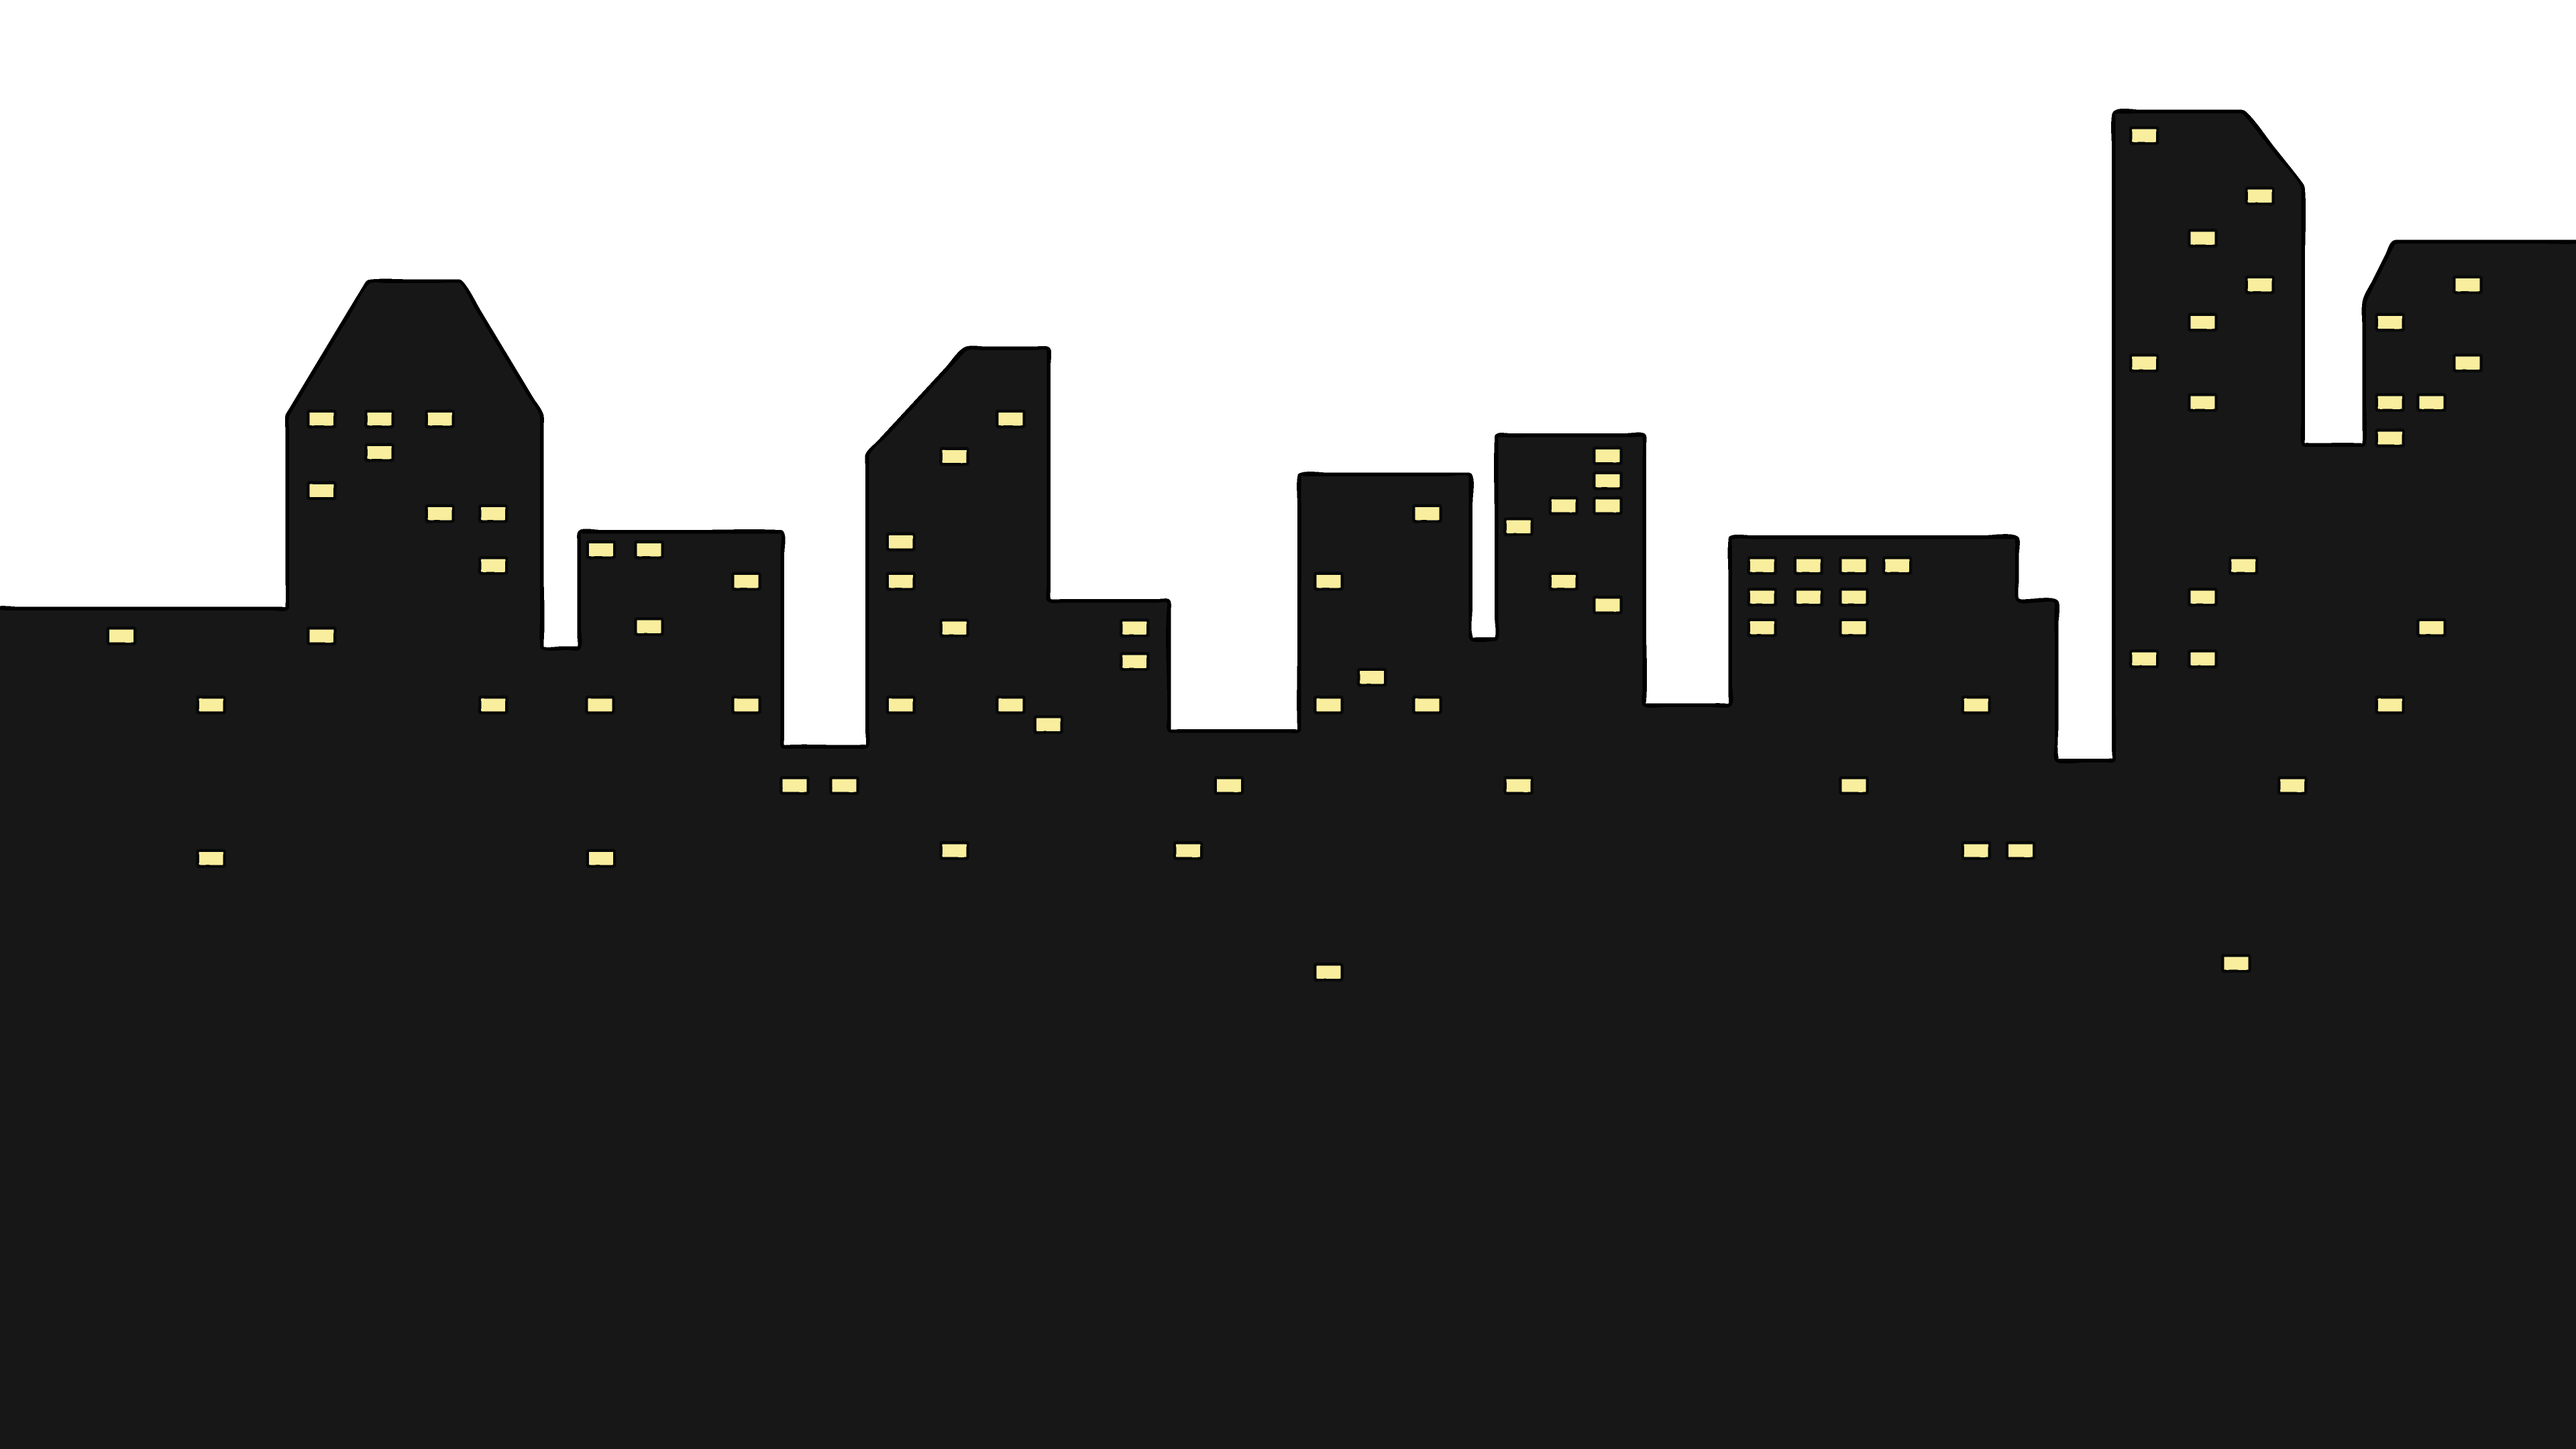
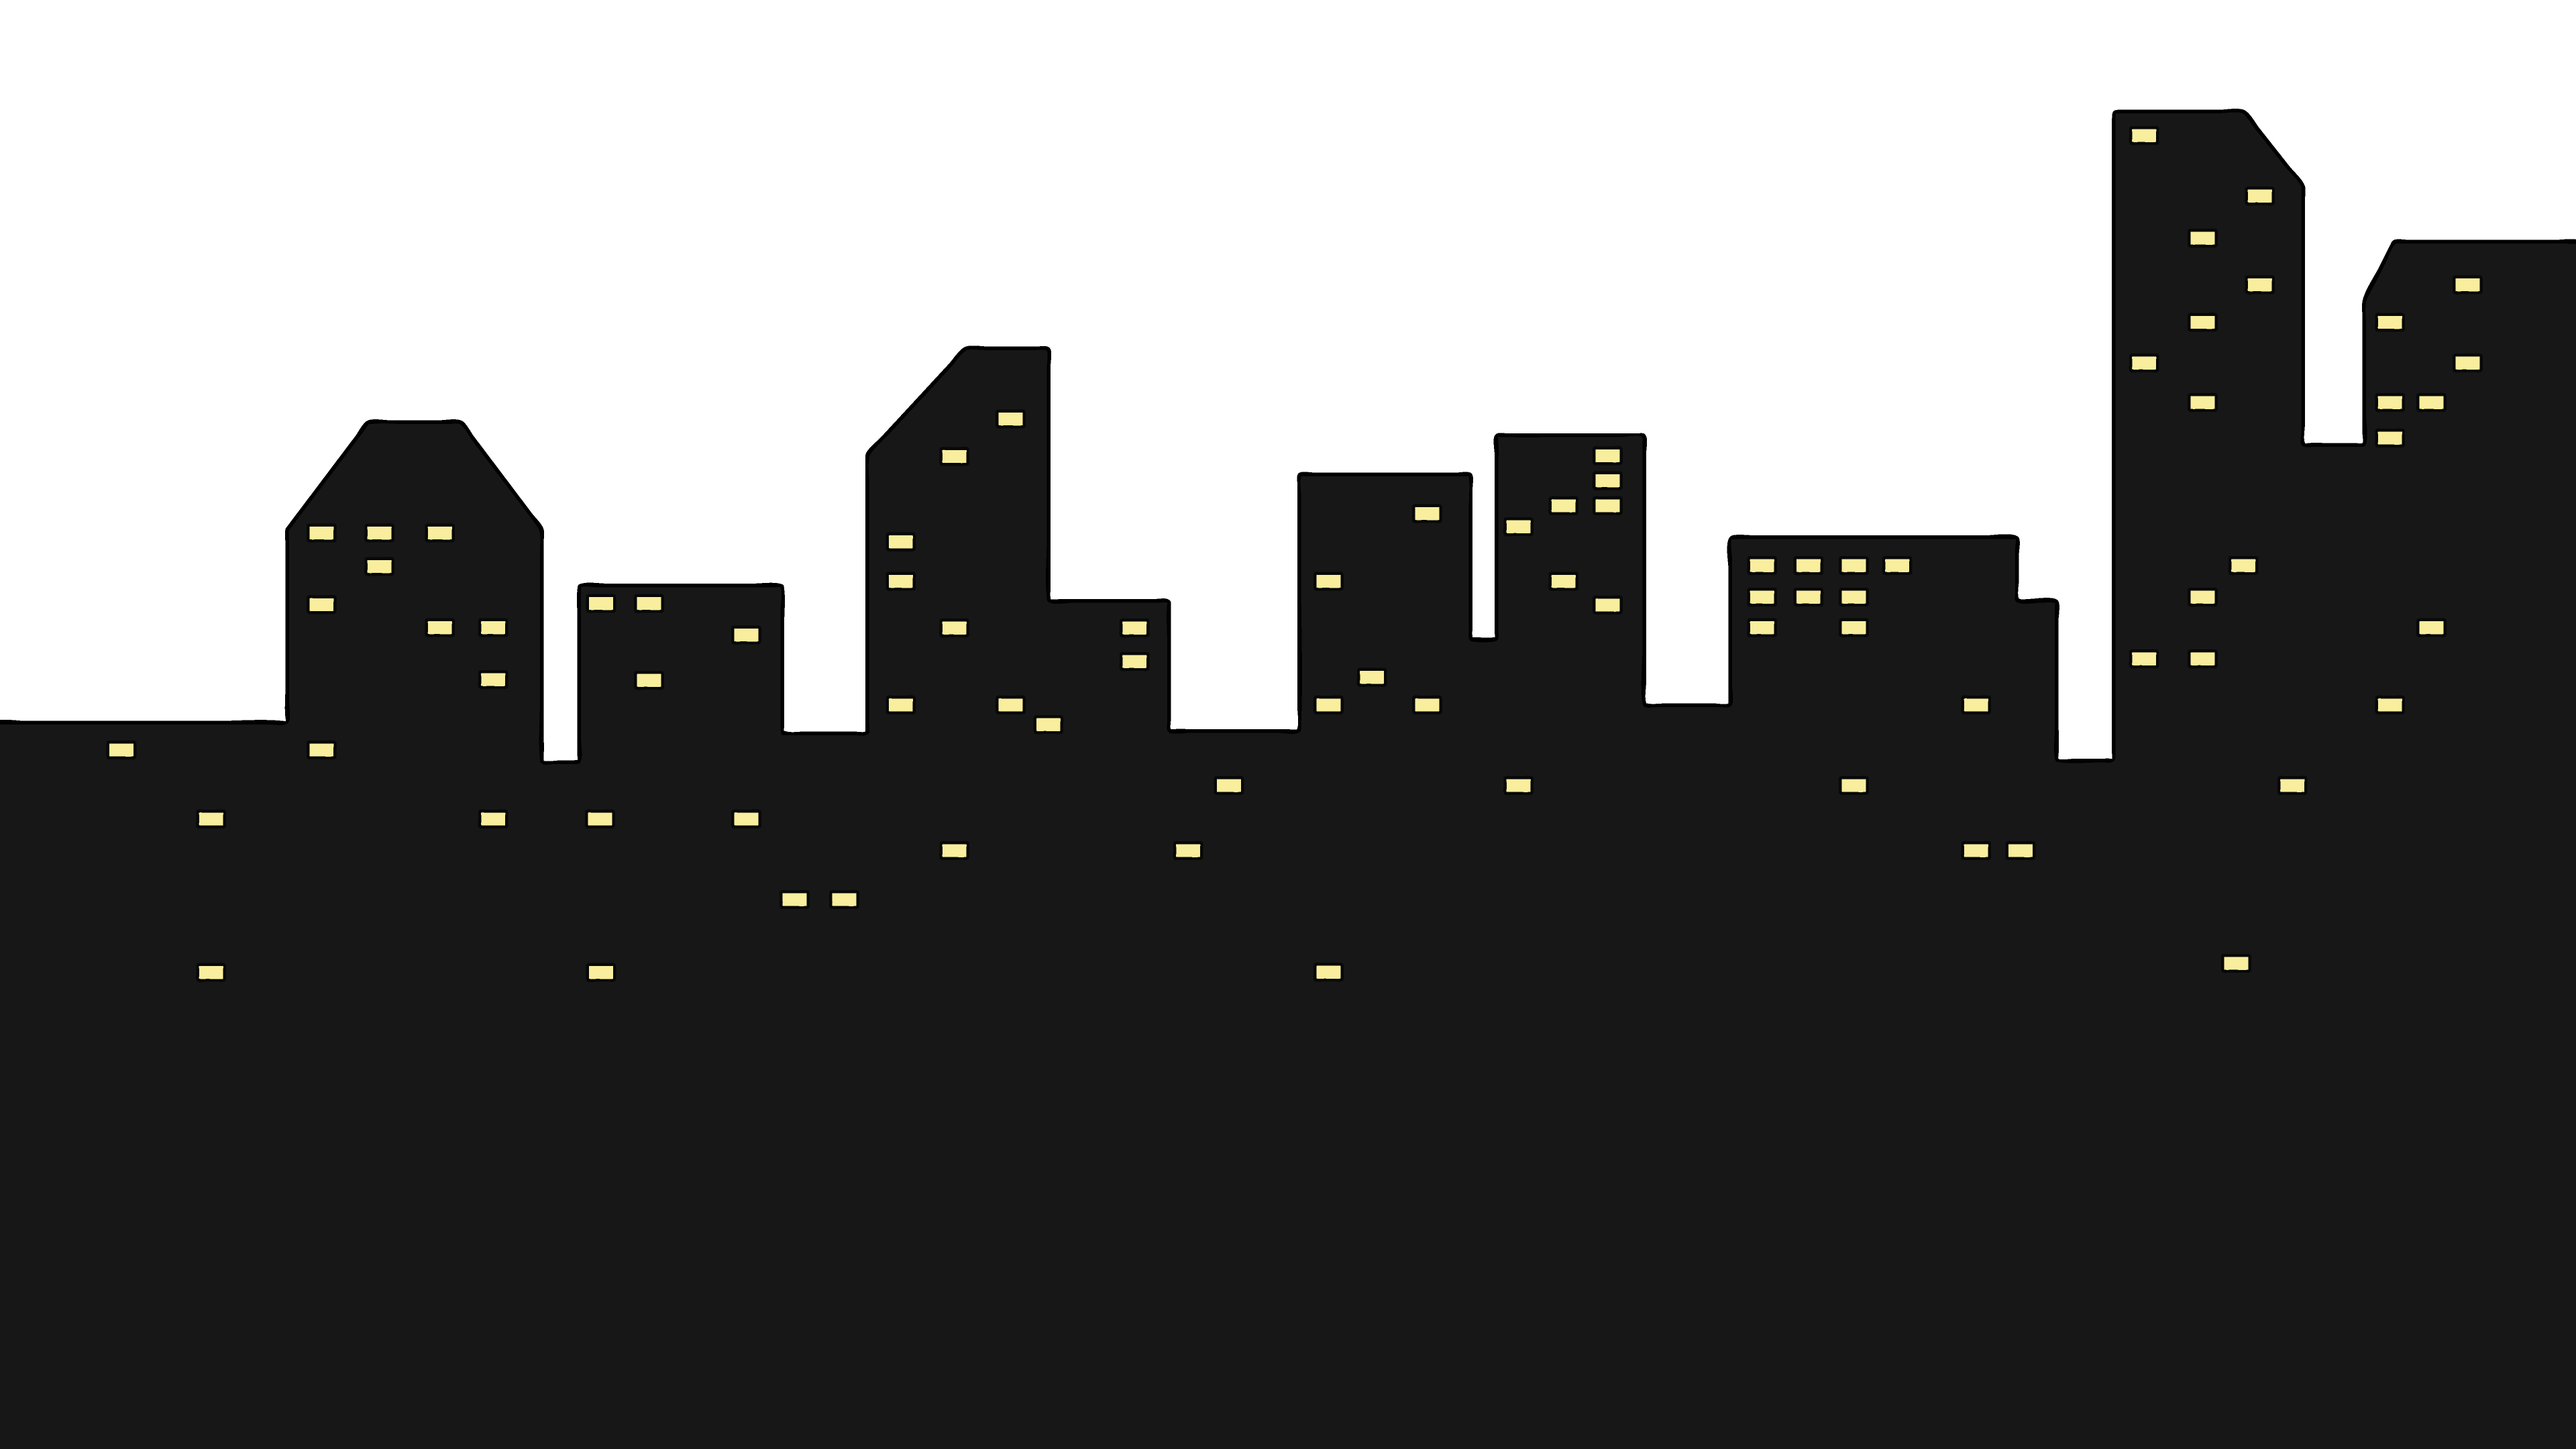
char select and home screen

diff --git a/public/assets/js/script.js b/public/assets/js/script.js
@@ -63,9 +63,9 @@ selectHero.on("click", function (event) {
     var defBoost = heroWep1.itmDefense + heroWep2.itmDefense;
     var intBoost = heroWep1.itmIntellect + heroWep2.itmIntellect;
 
-    for(vari=0; i<heroArr.length; i++){
-       var item1= $("testbutton").html(heroArr[i]);
-    }
+    // for(vari=0; i<heroArr.length; i++){
+    //    var item1= $("testbutton").html(heroArr[i]);
+    // }
 
     charArr.splice(0,1,Hero);
     Hero.attack += attackBoost;
@@ -114,6 +114,51 @@ selectMothman.on("click", function (event) {
     event.preventDefault();
 })
 
+// Show, hide the character stats when hovering
+$("#heroCharacter").hover(function() {
+    $(".hero-DIV").removeClass("hidden");
+    $('.blankStats').addClass('hidden');
+});
+
+$("#sidekickCharacter").hover(function() {
+    $(".sidekick-DIV").removeClass("hidden");
+    $('.blankStats').addClass('hidden');
+});
+
+$("#shadowtakenCharacter").hover(function() {
+    $(".shadowtaken-DIV").removeClass("hidden");
+    $('.blankStats').addClass('hidden');
+});
+
+$("#mothmanCharacter").hover(function() {
+    $(".mothman-DIV").removeClass("hidden");
+    $('.blankStats').addClass('hidden');
+});
+
+$("#heroCharacter, #sidekickCharacter, #shadowtakenCharacter, #mothmanCharacter").on('mouseleave', function() {
+    $('.blankStats').removeClass('hidden');
+    $(".hero-DIV").addClass("hidden");
+    $(".sidekick-DIV").addClass("hidden");
+    $(".shadowtaken-DIV").addClass("hidden");
+    $(".mothman-DIV").addClass("hidden");
+ });
+
+//ModalBox for CharSelect
+// $('#myModal').on('shown.bs.modal', function () {
+//     $('#myInput').trigger('focus')
+//   })
+
+// Get the modal
+var modal = $('.char-sel-modal');
+
+// Get the button that opens the modal
+var btn = $("#heroCharacter, #sidekickCharacter, #shadowtakenCharacter, #mothmanCharacter");
+
+// When the user clicks on the button, open the modal 
+btn.onclick = function() {
+    modal.style.display = "block";
+}
+
 //lets a button be active for when we input data?
 
 // var header = document.getElementById("myID");
@@ -125,6 +170,11 @@ selectMothman.on("click", function (event) {
 //     this.className += " active";
 //   });
 // }
+$(".heroCharacter").on("mouseenter", function() {
+    $(".hero-DIV").show();
+}).on("mouseleave", function() {
+    $(".hero-DIV").hide();
+});
 
 // Code for the start up screen.
 var hideWelcome = function() {
@@ -161,15 +211,22 @@ $(function() {
         $("#createUser").removeClass("hidden");
         $("#createUser").addClass("fadeInUp animated");
         var themeSong = $(".themeMusic");
-        themeSong.stop();
-        var obj = document.createElement("audio");
+        var charSelSong = document.createElement("audio");
         var site = window.location;
-        obj.src = site + "/public/assets/music/BTM Character Select.mp3";
-        obj.autoPlay = false;
-        obj.preLoad = true;
-        obj.controls = false;
-        obj.loop = true;
-        obj.play();
+        charSelSong.src = site + "/public/assets/music/BTM Character Select.mp3";
+        charSelSong.autoPlay = false;
+        charSelSong.preLoad = true;
+        charSelSong.controls = false;
+        charSelSong.loop = true;
+        charSelSong.duration = 0;
+        if (charSelSong.duration > 0 && !myAudio.paused) {
+            themeSong.stop();
+            console.log("Character Select Song is playing.");
+        } else {
+            charSelSong.play();
+            charSelSong.duration = 1;
+        }
+
     });
      //back to User Credentials
      $("#backToUser").on("click", function(event) {
@@ -179,7 +236,11 @@ $(function() {
         $("#enterCredentials").removeClass("hidden");
         $("#enterCredentials").addClass("fadeInUp animated");
     });   
-
+    //Homepage, restart app
+    $(".backHome").on("click", function(){
+        event.preventDefault();
+        window.location.href = ("/");
+    });
 
     $("#submitUser").on("click", function(event) {
         //prevent page from reloading
@@ -195,8 +256,8 @@ $(function() {
             bossOne: false,
             bossTwo: false, 
             bossThree: false
-        };
-
+    };
+       
         //here is the call from the controller
         $.ajax("/createuser", {
             type: "POST",
@@ -206,10 +267,5 @@ $(function() {
             window.location = "/gamepage";
             })
     });
-
-    $(".backHome").on("click", function(){
-        event.preventDefault();
-        window.location.href = ("/");
-    })
 
 });

diff --git a/public/assets/css/btmbrawler_style.css b/public/assets/css/btmbrawler_style.css
@@ -122,15 +122,15 @@ body {
 }
 
 .main-screen {
-	background-image: url("../images/Hero-and-Sidekick.png"), url("../images/Front-Buildings.png"), url("../images/Rear-Buildings.png"), url("../images/Clouds-and-Moon.png");
+	background-image: url("../images/Hero-and-Sidekick.png"), url("../images/Front-Buildings.png"), url("../images/Roto-Bot.png"), url("../images/Rear-Buildings.png"), url("../images/Clouds-and-Moon.png");
     background-repeat: no-repeat, no-repeat, repeat-x;
-    background-size: 100%, 100%, 100%, 100%;
+    background-size: 100%, 100%, 100%, 100%, 100%;
     min-height:575px;
 }
 
 @keyframes animateCity {
-	from { background-position: 0px 30px, 0px 120px, 0px 50px, 0px -30px; }
-	to { background-position: 20px -50px, 0px 20px, 0px -20px, 0px -30px; }
+	from { background-position: 0 30px, 0 120px, -450px 50px, 0 30px, 0 -30px; }
+	to { background-position: 20px -50px, 0 95px, -375px 65px, 0 0, 0 -30px; }
 }
 		
 .main-screen { 
@@ -222,6 +222,12 @@ body {
     -webkit-background-clip: text;
     -webkit-text-fill-color: transparent;
     text-align: left;
+}
+
+.blankStats {
+    background: rgba(0, 0, 0, 0.01);
+    width: 250px;
+    height: 283px;
 }
 
 .yellow {
